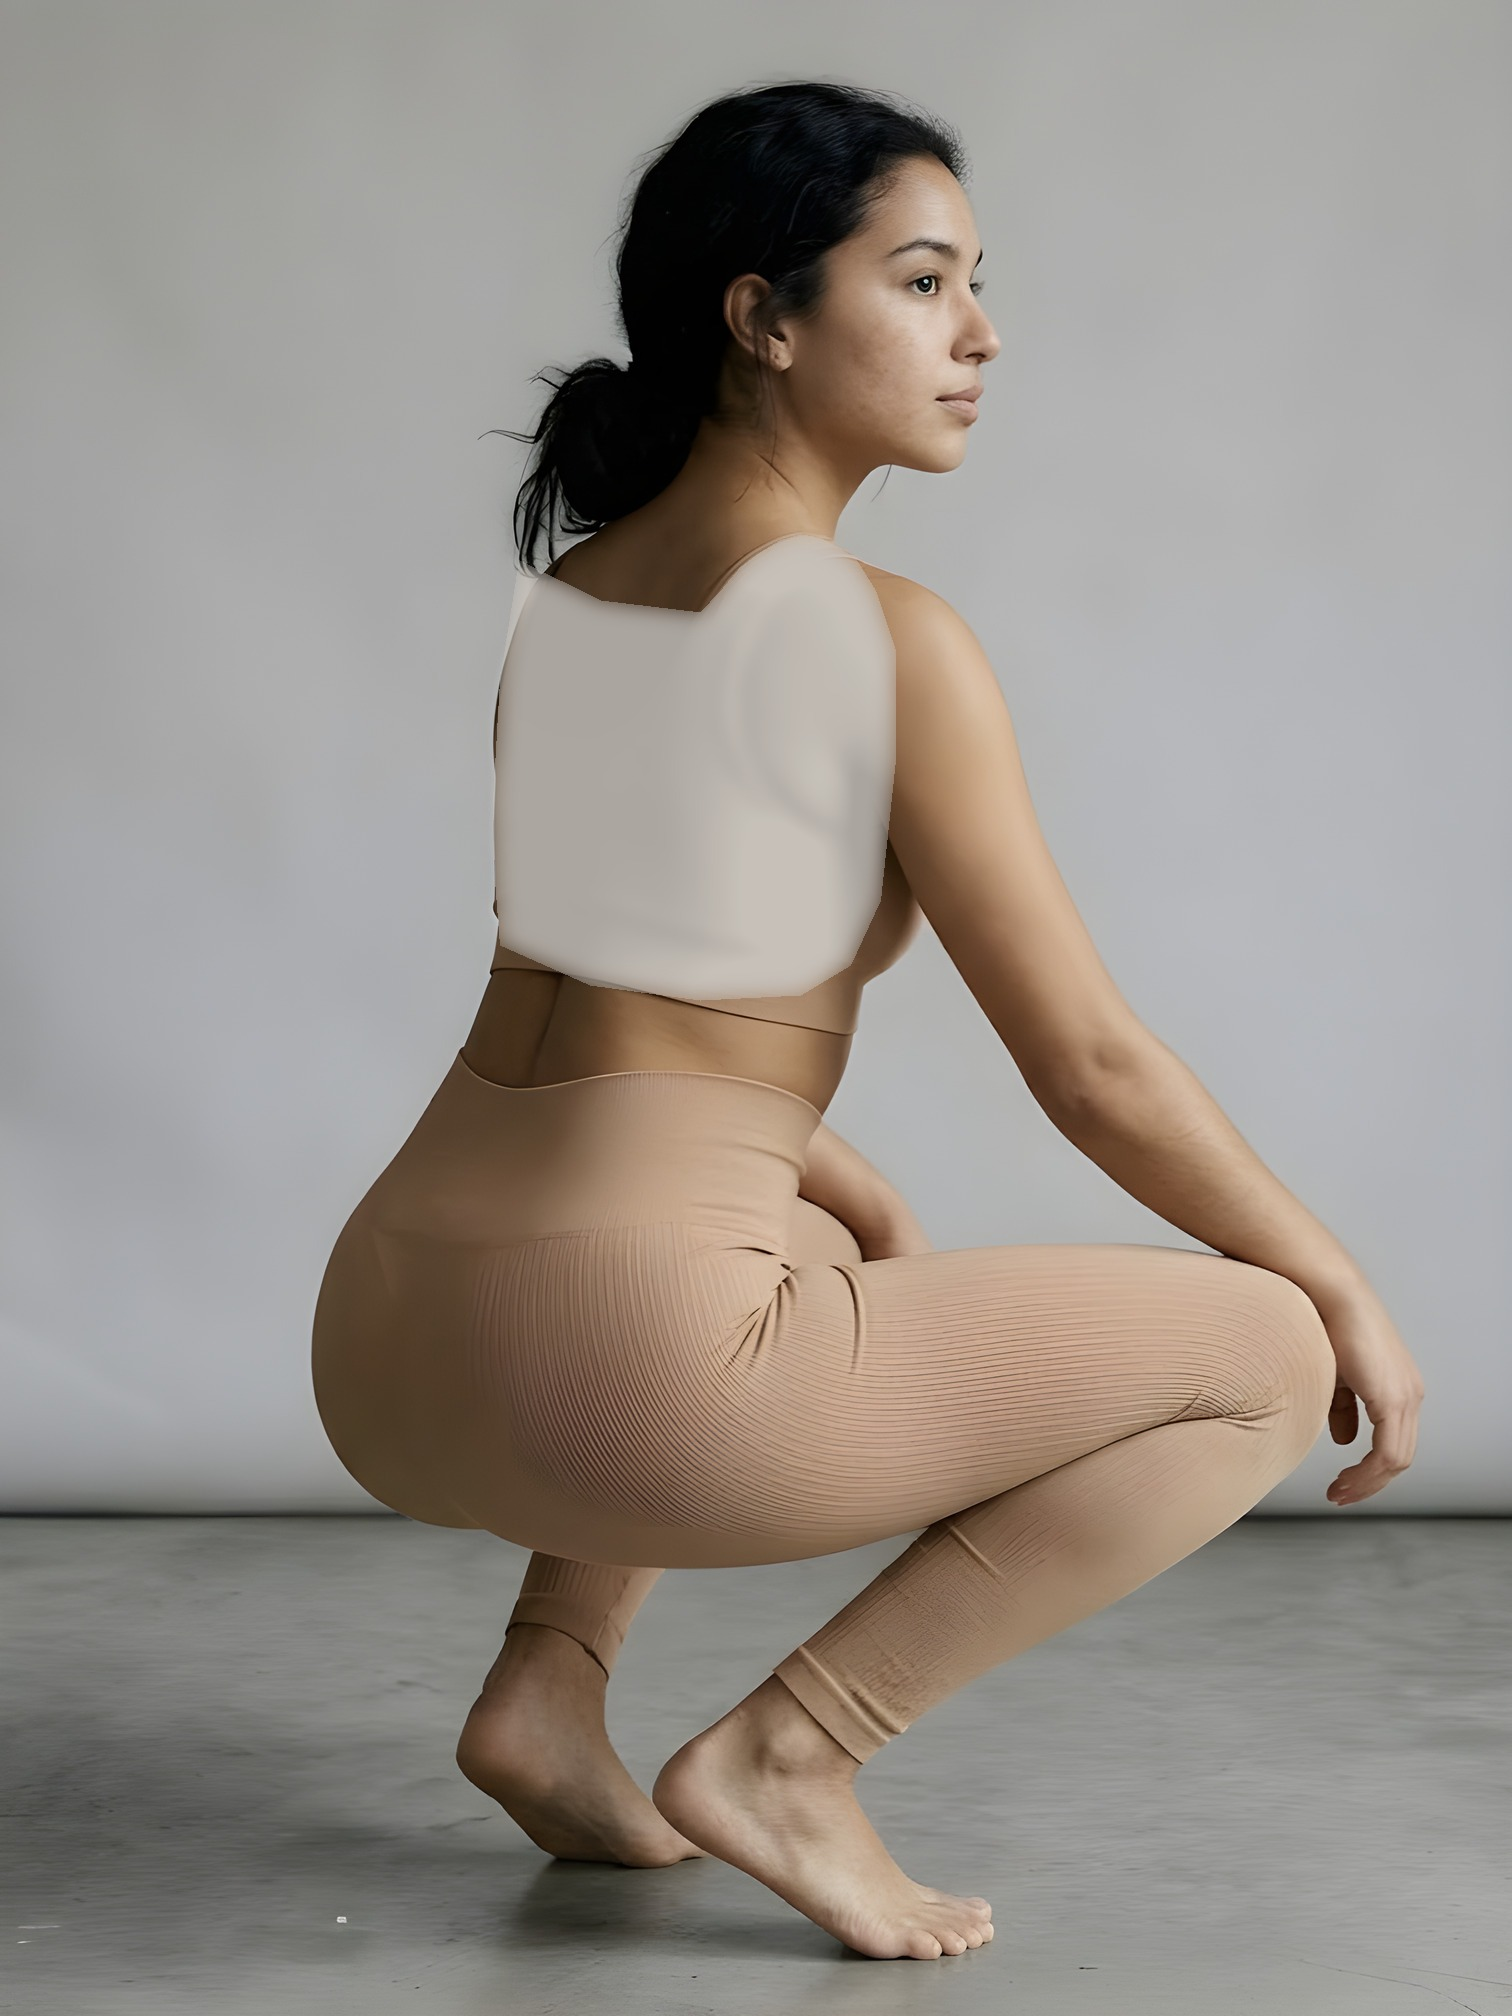
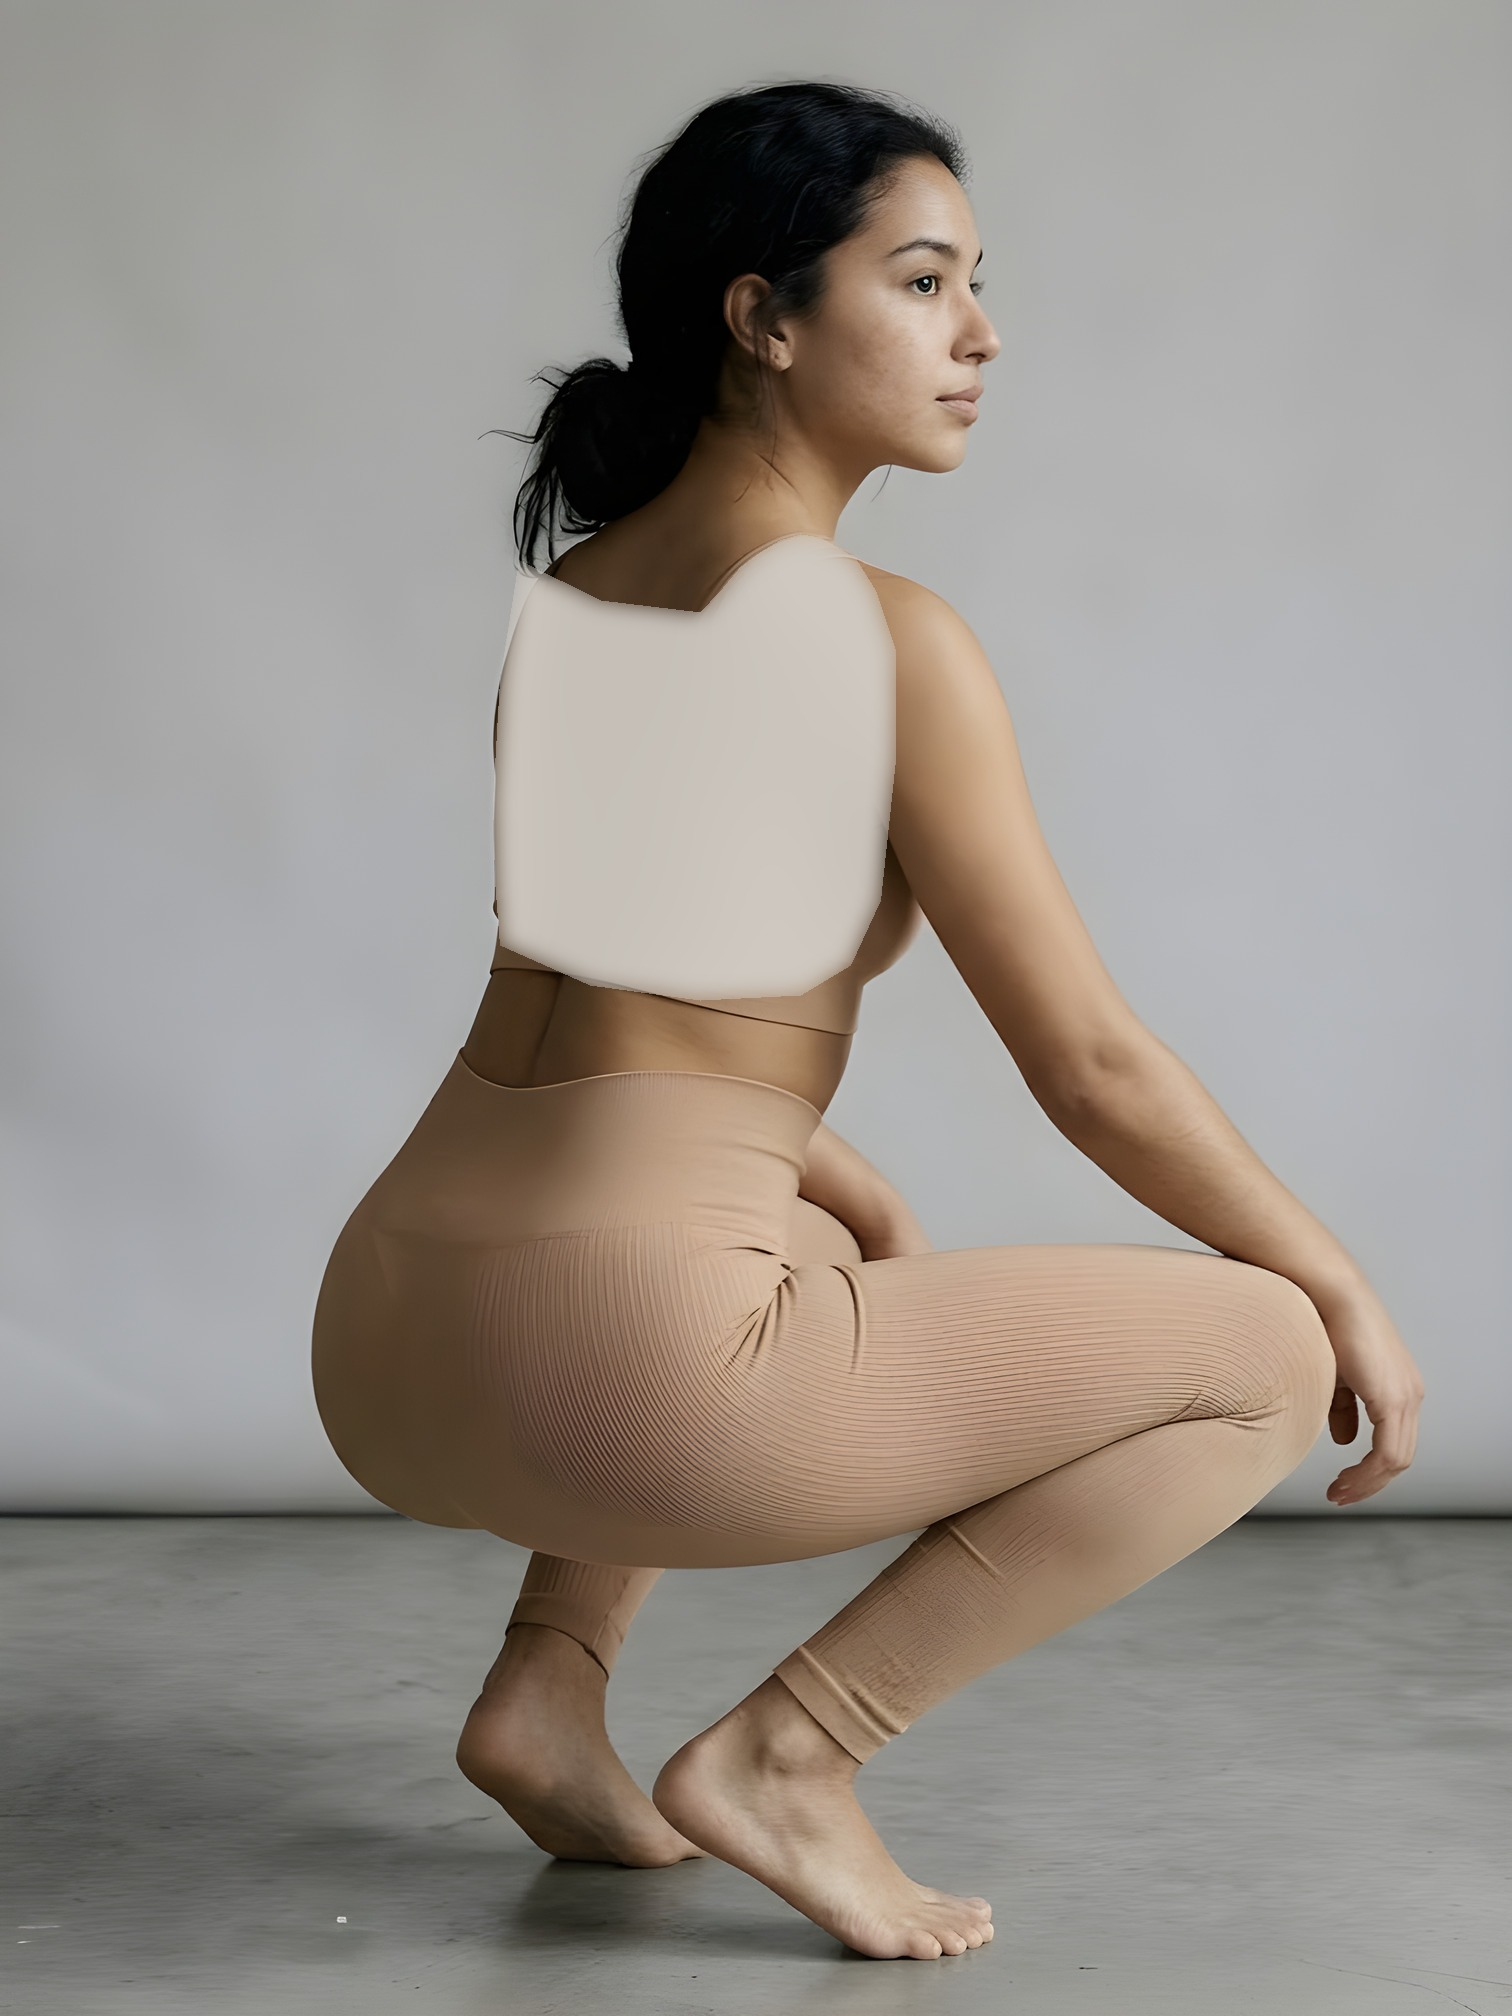
Flatten crop-top recolor further — kill the rounded highlight patch
The previous fix smoothed and narrowed the luminance remap but a
subtle rounded brighter patch (the original photo's chest/shoulder
specular highlight, softened but not eliminated) was still visible
on the flat fabric of the legging tops. It read as a distinct blob
against the otherwise even cream because its shape was rounded
rather than a natural fabric fold.

Fix: much heavier luminance-map smoothing (blur radius 45 instead
of 8) so the highlight spreads across nearly the whole region
instead of surviving as a local peak, a narrower output luminance
band (183-198 instead of 170-205), and a much stronger blend toward
the flat target colour (0.6/0.4 instead of 0.85/0.15) so shading is
now just a faint hint rather than a transferred photo highlight.
Verified: flat fabric interior is now visually uniform on all four
images, and all previously-fixed edges (shoulder/hair boundary,
neckline, underarm, hem) remain tight with no regression.

Claude-Session: https://claude.ai/code/session_019ptV41kxtywRMGKV162Qyj

Changed region(s): [[0.3108, 0.2812, 0.4663, 0.5], [0.5595, 0.375, 0.5906, 0.4688]]

diff --git a/assets/products.js b/assets/products.js
@@ -71,10 +71,10 @@ window.COVERLINE_PRODUCTS = [
     sizes: ["S","M","L"],
     proof: "Squat-tested. Not sheer. High waist that stays put.",
     colors: [
-      { key: "black", label: "Black", hex: "#25272a", image: "/assets/product-images/legging-black.jpg?v=15" },
-      { key: "nude", label: "Nude", hex: "#c9a888", image: "/assets/product-images/legging-nude.jpg?v=15" }
+      { key: "black", label: "Black", hex: "#25272a", image: "/assets/product-images/legging-black.jpg?v=16" },
+      { key: "nude", label: "Nude", hex: "#c9a888", image: "/assets/product-images/legging-nude.jpg?v=16" }
     ],
-    image: "/assets/product-images/legging-black.jpg?v=15",
+    image: "/assets/product-images/legging-black.jpg?v=16",
     swatch: function(){ return '<rect width="300" height="400" fill="var(--paper-raised)"/><path d="M0,240 C 100,300 200,200 300,260 L300,400 L0,400 Z" fill="var(--accent-2)" opacity=".5"/><path d="M0,150 C 110,90 190,210 300,160" fill="none" stroke="var(--accent)" stroke-width="1"/>'; }
   },
   {
@@ -89,10 +89,10 @@ window.COVERLINE_PRODUCTS = [
     sizes: ["S","M","L","XL"],
     proof: "Passes the squat test. Longer than the usual gym short.",
     colors: [
-      { key: "maroon", label: "Maroon", hex: "#5b2430", image: "/assets/product-images/short-maroon.jpg?v=15" },
-      { key: "pink", label: "Pink", hex: "#c79a9d", image: "/assets/product-images/short-pink.jpg?v=15" }
+      { key: "maroon", label: "Maroon", hex: "#5b2430", image: "/assets/product-images/short-maroon.jpg?v=16" },
+      { key: "pink", label: "Pink", hex: "#c79a9d", image: "/assets/product-images/short-pink.jpg?v=16" }
     ],
-    image: "/assets/product-images/short-maroon.jpg?v=15",
+    image: "/assets/product-images/short-maroon.jpg?v=16",
     swatch: function(){ return '<rect width="300" height="400" fill="var(--paper-raised)"/><path d="M0,270 C 100,320 200,240 300,280 L300,400 L0,400 Z" fill="var(--accent-2)" opacity=".5"/><path d="M0,170 C 100,220 200,120 300,180" fill="none" stroke="var(--accent)" stroke-width="1"/>'; }
   }
 ];
